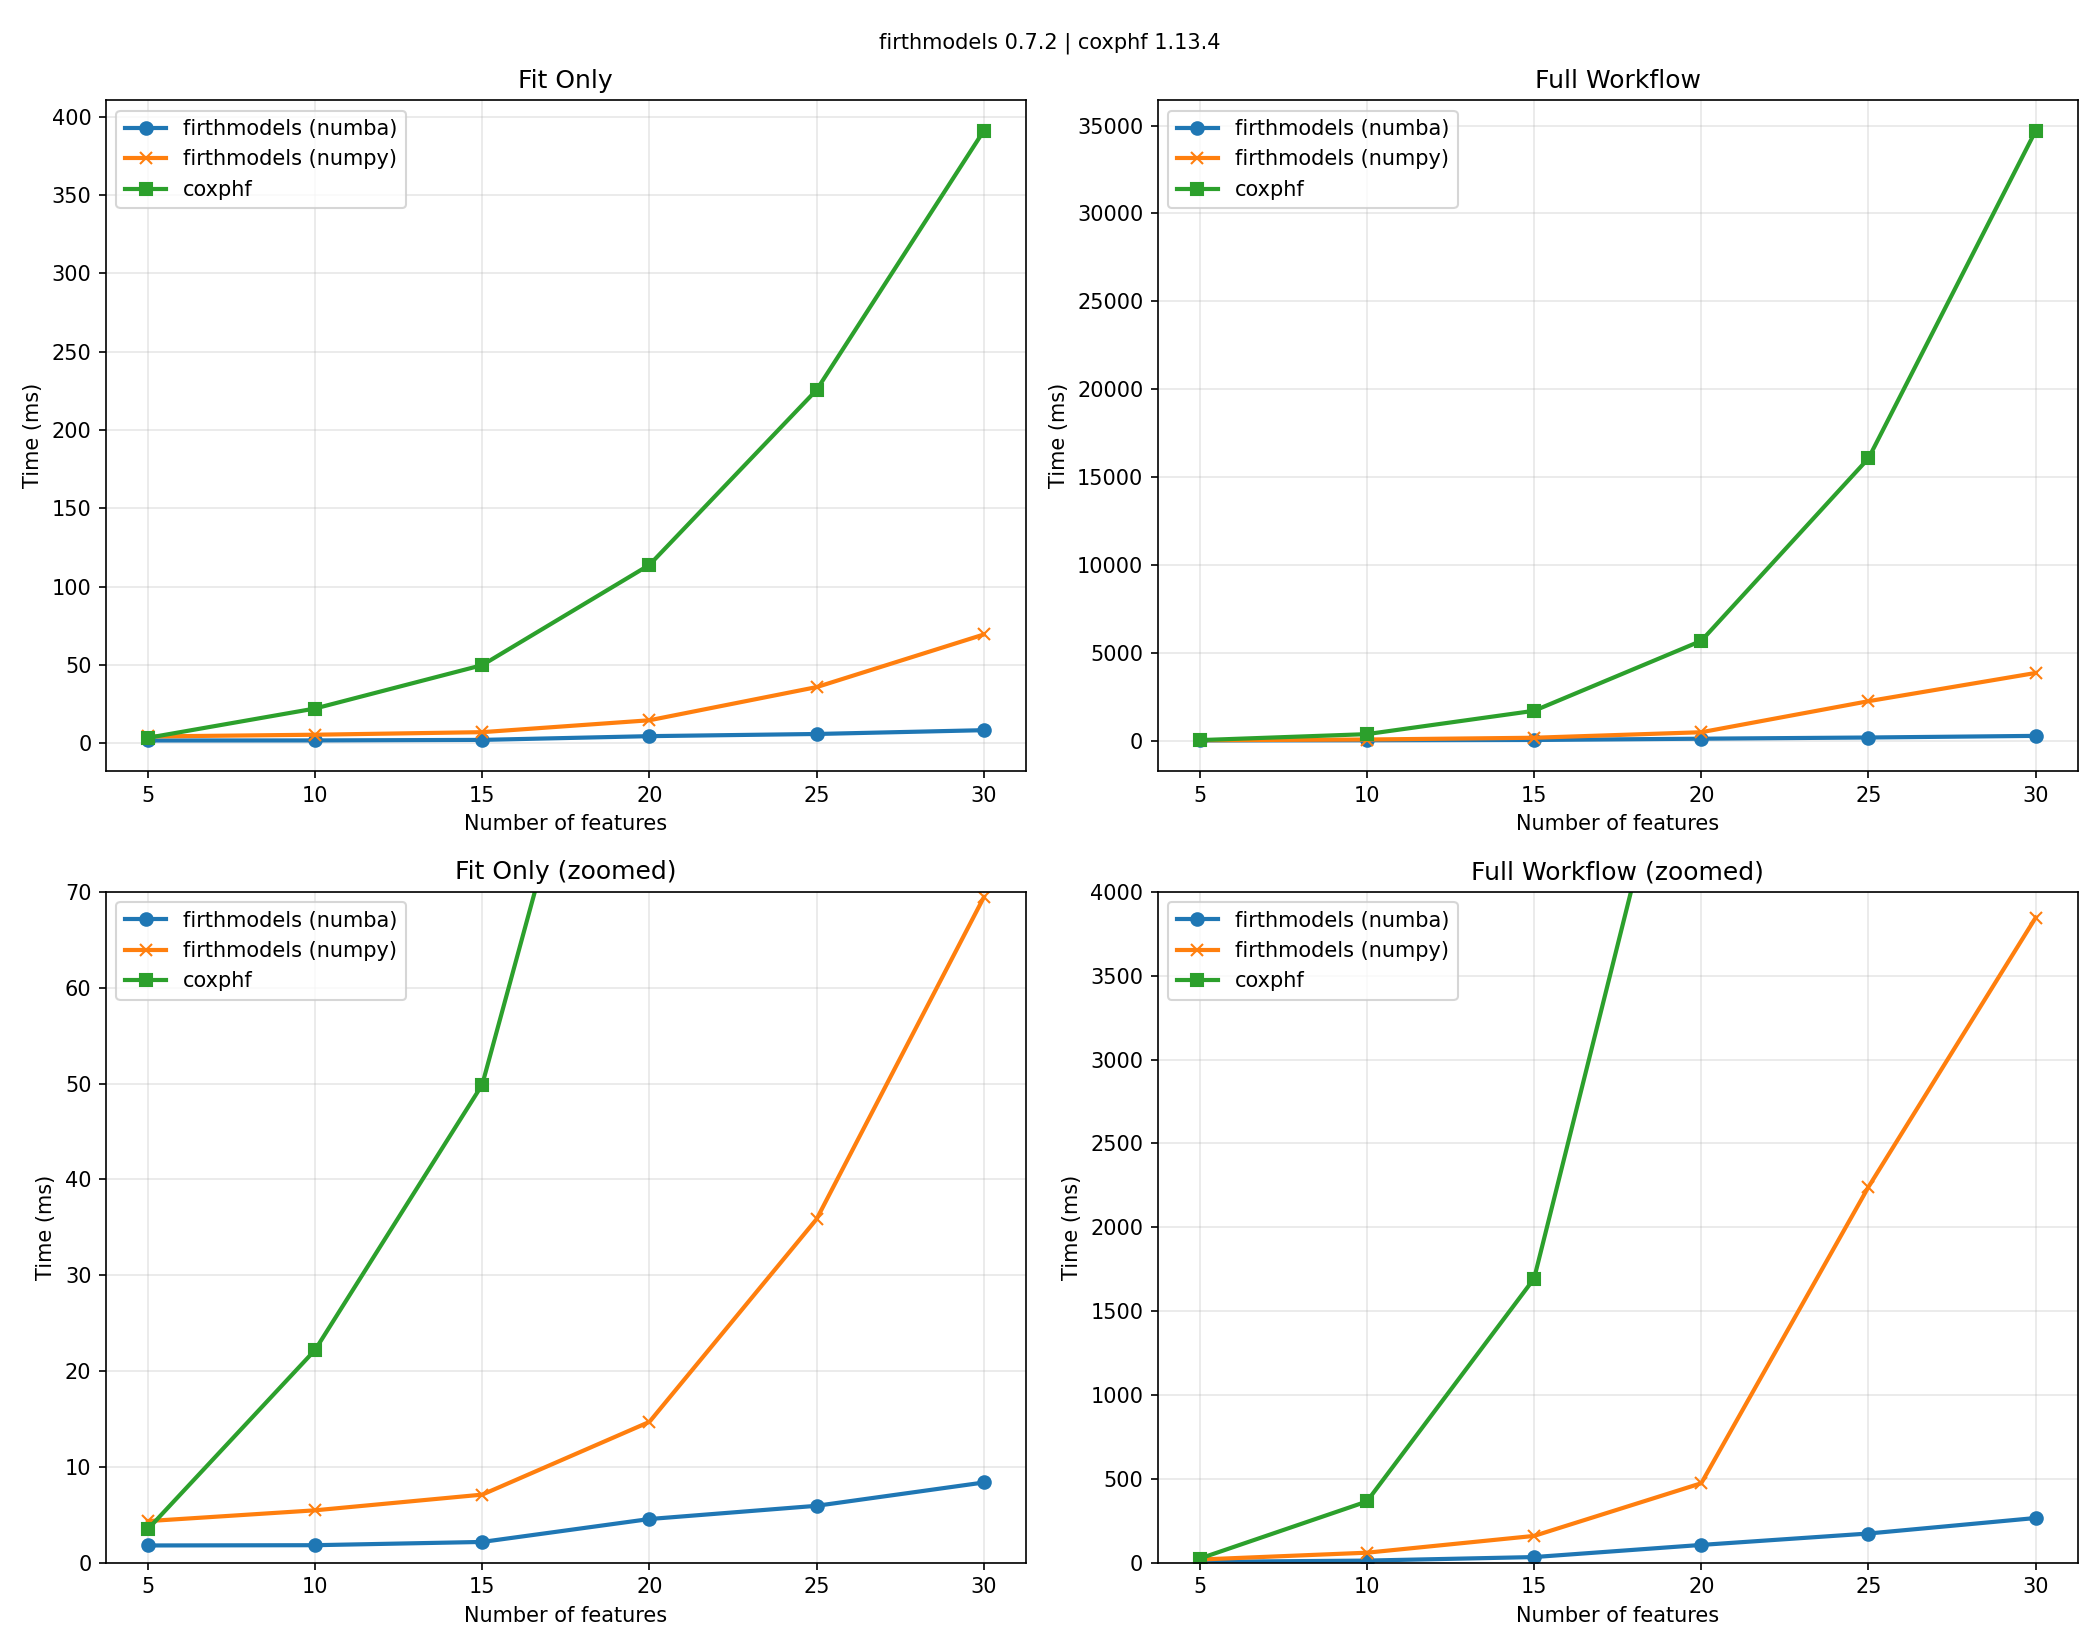
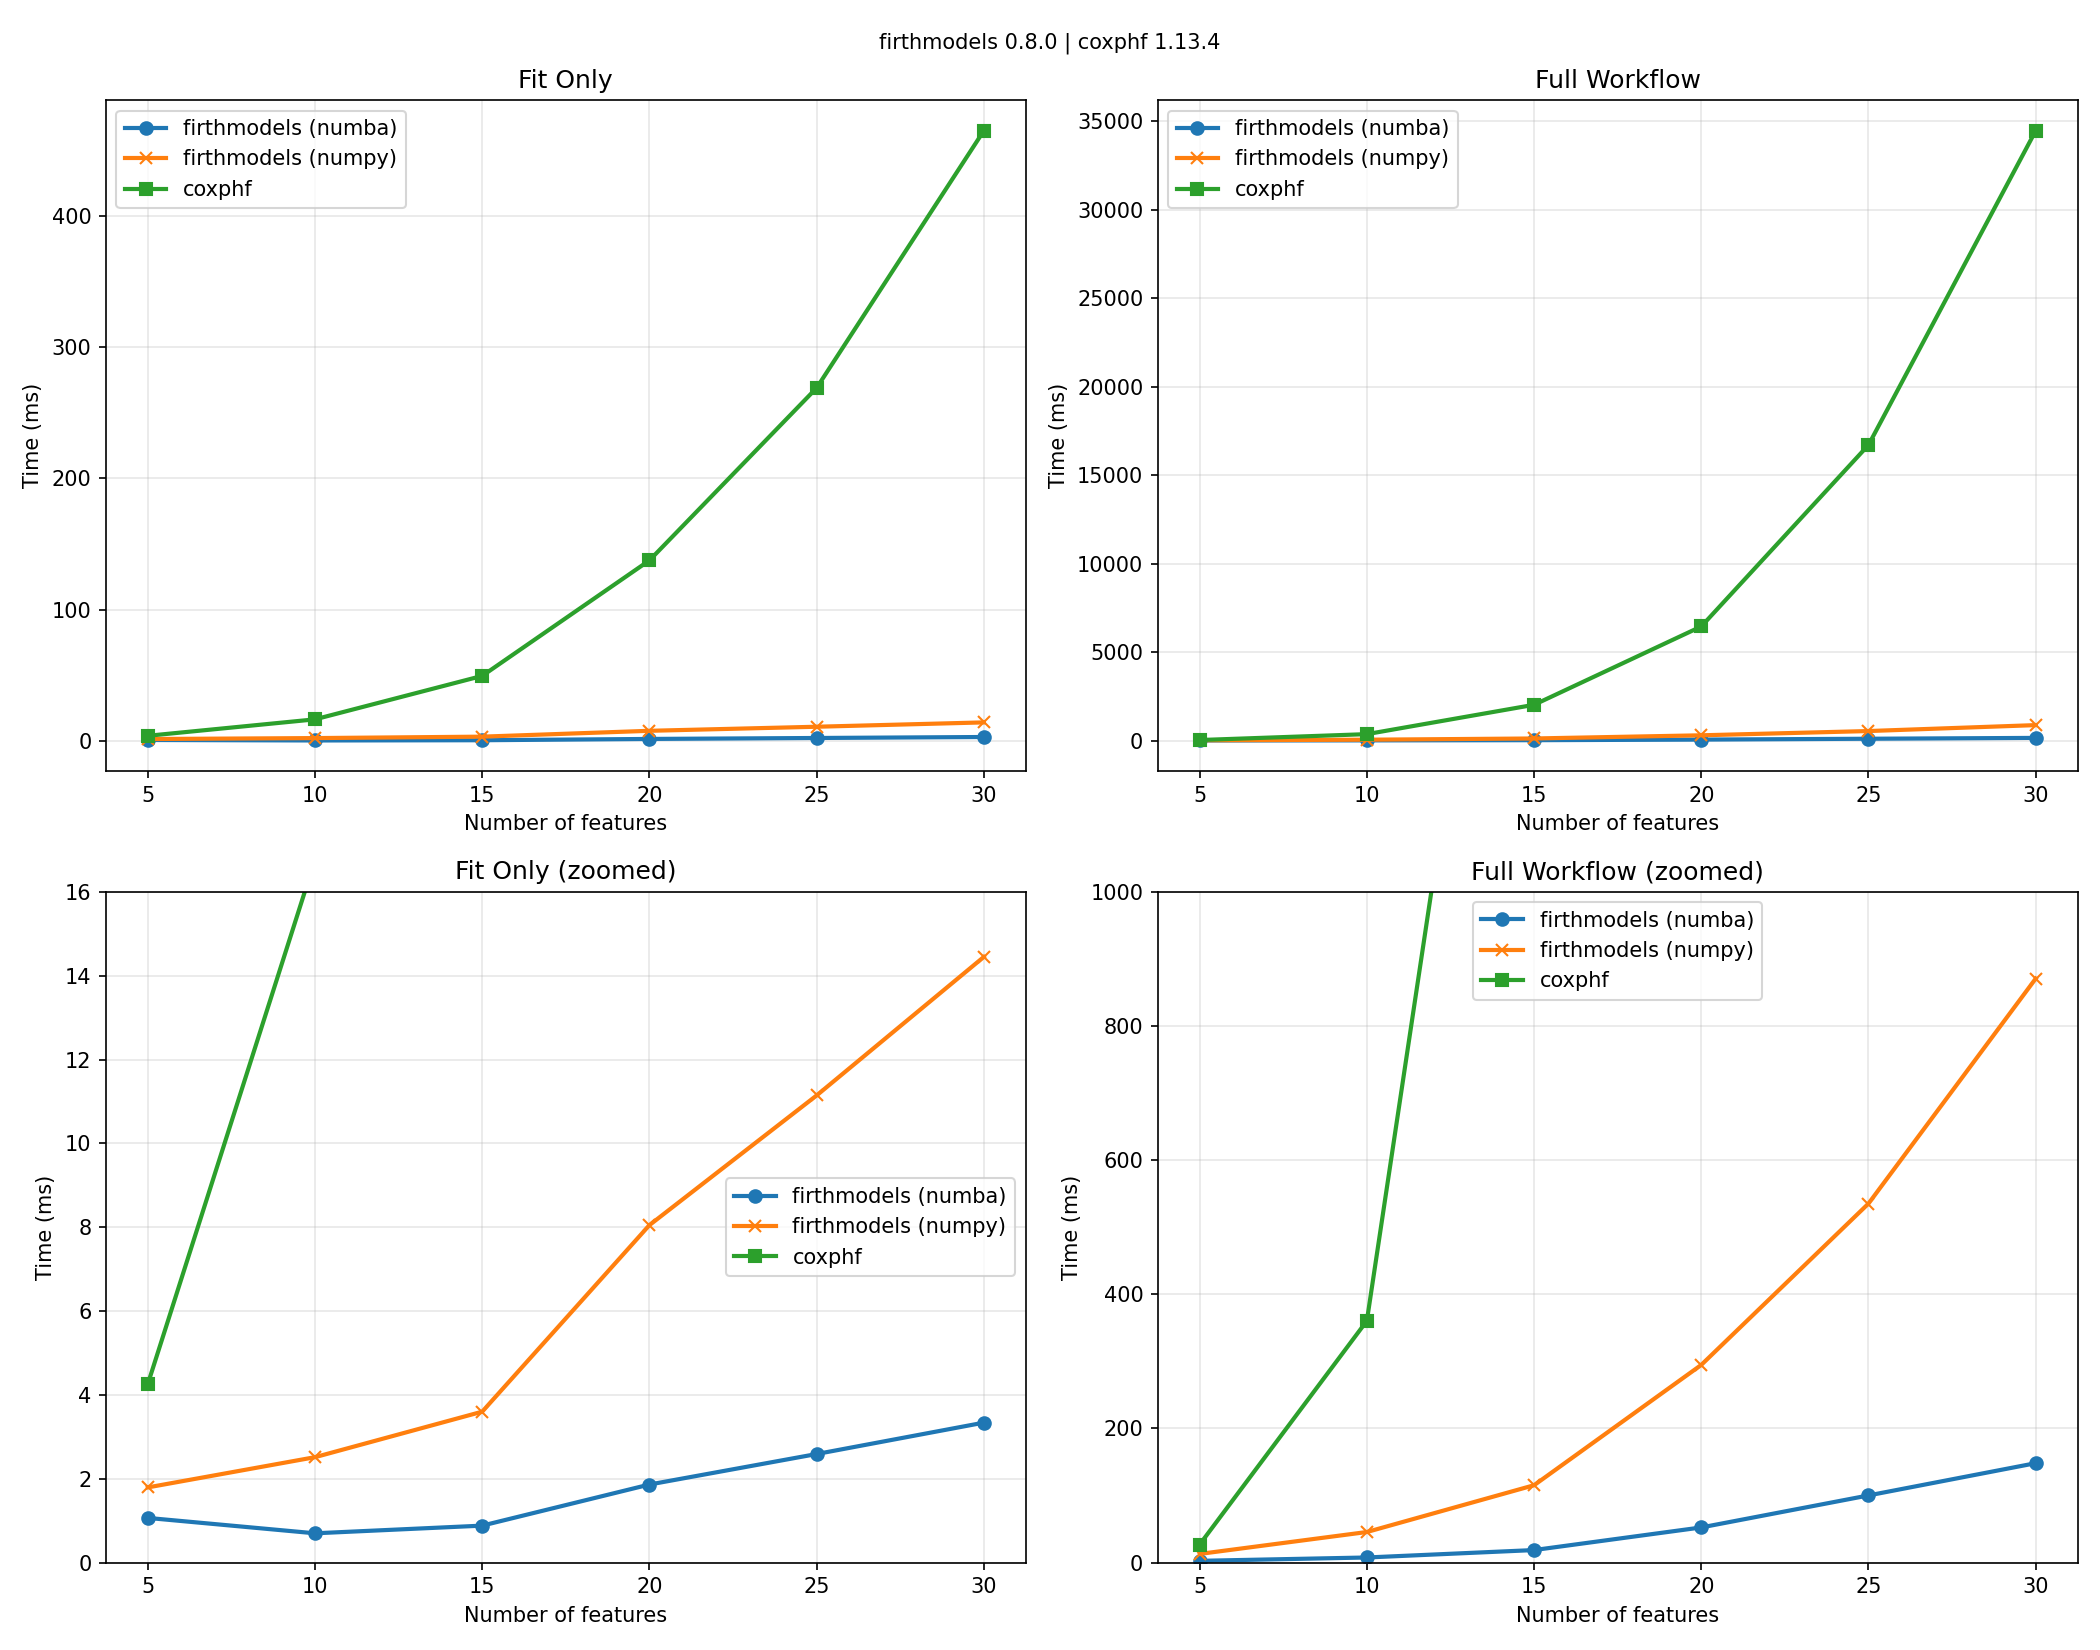
bump to 0.8.0

diff --git a/benchmarks/README.md b/benchmarks/README.md
@@ -27,7 +27,7 @@ for Firth-penalized logistic regression.
 
 | Library | Version | BLAS |
 |---------|---------|------|
-| **firthmodels** | 0.7.2 | /usr/lib/x86_64-linux-gnu/openblas-pthread/ (openblas 0.3.26) |
+| **firthmodels** | 0.8.0 | /usr/lib/x86_64-linux-gnu/openblas-pthread/ (openblas 0.3.26) |
 | **brglm2** | 1.0.1 | /usr/lib/x86_64-linux-gnu/openblas-pthread/libblas.so.3 |
 | **logistf** | 1.26.1 | /usr/lib/x86_64-linux-gnu/openblas-pthread/libblas.so.3 |
 
@@ -56,16 +56,16 @@ Time to fit the model and perform Wald inference. Values are minimum time across
 
 | k | firthmodels<br>(numba) | firthmodels<br>(numpy) | brglm2<br>(AS-mean) | brglm2<br>(MPL_Jeffreys) | logistf |
 |--:|------:|------:|------------:|-------------:|--------:|
-|   5 | 0.5 | 1.4 | 4.2 | 4.2 | 2.0 |
-|  10 | 1.2 | 1.9 | 7.9 | 7.2 | 4.3 |
-|  15 | 1.2 | 1.9 | 8.2 | 8.2 | 7.6 |
-|  20 | 1.5 | 2.3 | 9.3 | 9.4 | 15.7 |
-|  25 | 1.8 | 2.7 | 11.7 | 11.7 | 24.2 |
-|  30 | 2.1 | 2.9 | 12.6 | 12.9 | 30.2 |
-|  35 | 2.3 | 3.4 | 14.9 | 14.8 | 42.0 |
-|  40 | 2.8 | 3.8 | 16.9 | 16.8 | 52.7 |
-|  45 | 3.9 | 4.6 | 18.6 | 19.8 | 70.3 |
-|  50 | 4.5 | 5.8 | 23.9 | 24.2 | 86.0 |
+|   5 | 0.5 | 1.4 | 4.2 | 4.3 | 2.1 |
+|  10 | 1.1 | 1.8 | 7.5 | 7.4 | 4.2 |
+|  15 | 1.2 | 2.0 | 8.4 | 8.5 | 6.8 |
+|  20 | 1.4 | 2.2 | 9.6 | 9.7 | 15.1 |
+|  25 | 1.7 | 2.7 | 12.0 | 12.0 | 23.2 |
+|  30 | 2.0 | 2.8 | 13.0 | 13.0 | 28.8 |
+|  35 | 2.1 | 3.2 | 15.5 | 15.4 | 40.5 |
+|  40 | 2.6 | 3.7 | 17.3 | 17.5 | 51.1 |
+|  45 | 3.3 | 4.6 | 19.1 | 19.3 | 67.9 |
+|  50 | 4.1 | 5.4 | 24.3 | 24.5 | 83.5 |
 
 #### Full Workflow (Fit + LRT + Profile CI)
 
@@ -73,16 +73,16 @@ Time to fit the model, compute penalized likelihood ratio test p-values for all 
 
 | k | firthmodels<br>(numba) | firthmodels<br>(numpy) | logistf |
 |--:|------:|------:|--------:|
-|   5 | 4.9 | 10.6 | 13.6 |
-|  10 | 21.0 | 43.1 | 72.1 |
-|  15 | 32.6 | 68.1 | 157.6 |
-|  20 | 59.6 | 109.7 | 452.6 |
-|  25 | 98.5 | 175.4 | 931.5 |
-|  30 | 131.6 | 226.1 | 1350.4 |
-|  35 | 184.0 | 312.7 | 2322.4 |
-|  40 | 237.0 | 379.7 | 3334.4 |
-|  45 | 358.4 | 519.7 | 4692.8 |
-|  50 | 490.5 | 700.5 | 6501.0 |
+|   5 | 4.7 | 11.0 | 13.8 |
+|  10 | 19.4 | 40.0 | 81.4 |
+|  15 | 29.2 | 63.8 | 156.9 |
+|  20 | 45.8 | 89.8 | 438.5 |
+|  25 | 77.1 | 141.8 | 903.0 |
+|  30 | 110.6 | 183.6 | 1307.5 |
+|  35 | 138.3 | 236.3 | 2209.1 |
+|  40 | 199.7 | 314.7 | 3188.7 |
+|  45 | 266.0 | 405.1 | 4574.0 |
+|  50 | 370.9 | 532.9 | 6282.8 |
 
 
 ---
@@ -97,7 +97,7 @@ for Firth-penalized Cox proportional hazards regression.
 
 | Library | Version | BLAS |
 |---------|---------|------|
-| **firthmodels** | 0.7.2 | /usr/lib/x86_64-linux-gnu/openblas-pthread/ (openblas 0.3.26) |
+| **firthmodels** | 0.8.0 | /usr/lib/x86_64-linux-gnu/openblas-pthread/ (openblas 0.3.26) |
 | **coxphf** | 1.13.4 | /usr/lib/x86_64-linux-gnu/openblas-pthread/libblas.so.3 |
 
 ### Configuration
@@ -124,12 +124,12 @@ Time to fit the model and perform Wald inference. Values are minimum time across
 
 | k | firthmodels<br>(numba) | firthmodels<br>(numpy) | coxphf |
 |--:|------:|------:|-------:|
-|   5 | 1.8 | 4.3 | 3.5 |
-|  10 | 1.8 | 5.5 | 22.2 |
-|  15 | 2.2 | 7.1 | 49.9 |
-|  20 | 4.5 | 14.7 | 113.9 |
-|  25 | 5.9 | 35.9 | 225.5 |
-|  30 | 8.4 | 69.4 | 391.0 |
+|   5 | 1.1 | 1.8 | 4.3 |
+|  10 | 0.7 | 2.5 | 16.8 |
+|  15 | 0.9 | 3.6 | 49.8 |
+|  20 | 1.9 | 8.0 | 137.7 |
+|  25 | 2.6 | 11.1 | 268.9 |
+|  30 | 3.3 | 14.4 | 464.5 |
 
 #### Full Workflow (Fit + LRT + Profile CI)
 
@@ -137,12 +137,12 @@ Time to fit the model, compute penalized likelihood ratio test p-values for all 
 
 | k | firthmodels<br>(numba) | firthmodels<br>(numpy) | coxphf |
 |--:|------:|------:|-------:|
-|   5 | 4.4 | 18.2 | 23.8 |
-|  10 | 11.8 | 58.9 | 364.4 |
-|  15 | 32.9 | 159.1 | 1693.6 |
-|  20 | 105.3 | 473.2 | 5675.5 |
-|  25 | 173.4 | 2240.4 | 16062.0 |
-|  30 | 265.9 | 3846.8 | 34707.3 |
+|   5 | 2.6 | 12.9 | 26.9 |
+|  10 | 7.6 | 45.6 | 360.4 |
+|  15 | 18.7 | 115.3 | 2019.4 |
+|  20 | 52.4 | 294.7 | 6447.7 |
+|  25 | 100.1 | 535.3 | 16706.7 |
+|  30 | 148.2 | 870.7 | 34470.1 |
 
 
 ---
